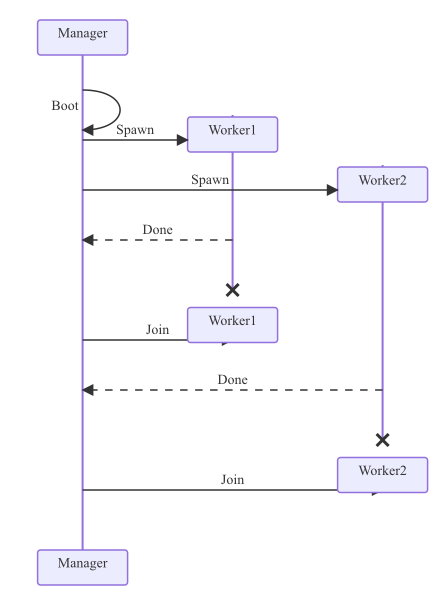
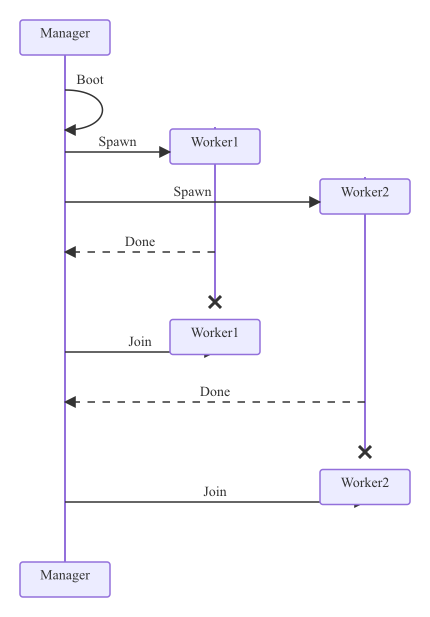
sequence: place self-message labels above the arc and reserve row clearance (#214)
* sequence: place self-message labels above the arc and reserve row clearance

Two related fixes to self-message rendering for mmdc parity:

1. Label placement. mmdc draws the label centered *above* the loop arc,
   not beside the lifeline. Switch renderSelfMessage to use the same
   multilineTextAbove helper as non-self messages, anchored at the arc
   midpoint (lifeline x + selfLoopW/2, y - 6).

   Replace selfMsgLeftBleed with selfMsgBleeds, which now also returns
   right-side overflow — both for the arc itself on the rightmost
   participant (selfLoopW + gap, previously unreserved) and for label
   overhang on either edge.

2. Row clearance after a self-message. The arc extends selfLoopH
   (40 px) below the message anchor, so the next row's label-above-
   arrow at next_y - 6 collides with the arc when defaultRowHeight is
   only 50 px. Add a selfLoopRowExtra() helper and apply it in both
   messageRenderer.curY advancement and extraLabelHeight, so the body
   reservation stays consistent.

Update TestRenderSelfMessageLabelLeftOfLifeline to assert the new
middle-anchored placement (renamed to TestRenderSelfMessageLabelAboveArc).
Refresh examples/sequence/{self_message,create_destroy} snapshots to
reflect the new layout.

* sequence: add renderSelfMessage godoc; assert label x in test

Address CodeRabbit review feedback:
- Document renderSelfMessage's geometry (arc shape, label placement,
  caller-managed clearance).
[…]

Changed region(s): [[0.0302, 0.0298, 0.9674, 0.9818]]

diff --git a/pkg/renderer/sequence/renderer.go b/pkg/renderer/sequence/renderer.go
@@ -144,8 +144,12 @@ func computeLayout(d *diagram.SequenceDiagram, fontSize, pad float64) seqLayout 
 		pIndex[p.ID] = i
 	}
 	leftBleed, rightBleed := noteBleed(d.Items, pIndex, n)
-	if l := selfMsgLeftBleed(d.Items, pIndex, fontSize); l > leftBleed {
-		leftBleed = l
+	sl, sr := selfMsgBleeds(d.Items, pIndex, n, fontSize)
+	if sl > leftBleed {
+		leftBleed = sl
+	}
+	if sr > rightBleed {
+		rightBleed = sr
 	}
 	if extra := leftBleed - pad; extra > 0 {
 		// Shift everything right so left-side notes fit.
@@ -300,40 +304,69 @@ func noteBleed(items []diagram.SequenceItem, pIndex map[string]int, n int) (left
 	return
 }
 
-// selfMsgLeftBleed returns the pixel extent the layout's left edge
-// must reserve for self-message labels on the leftmost participant
-// (text-anchor:end at lifeline x, label rendered to the left).
-func selfMsgLeftBleed(items []diagram.SequenceItem, pIndex map[string]int, fontSize float64) float64 {
+// selfMsgBleeds returns the horizontal overflow caused by self-message
+// arcs on the leftmost (idx 0) and rightmost (idx n-1) participants.
+//
+// The arc bulges selfLoopW to the right of the lifeline; the label is
+// centered above the arc midpoint. So:
+//   - Leftmost: a label wider than the arc overhangs left of the lifeline.
+//   - Rightmost: the arc itself extends past the rightmost lifeline; a
+//     wide label may extend further still.
+func selfMsgBleeds(items []diagram.SequenceItem, pIndex map[string]int, n int, fontSize float64) (left, right float64) {
 	const gap = 4.0
-	var bleed float64
 	for _, item := range items {
 		switch {
 		case item.Message != nil:
 			m := item.Message
-			if m.From != m.To || m.Label == "" {
+			if m.From != m.To {
 				continue
 			}
 			idx, ok := pIndex[m.From]
-			if !ok || idx != 0 {
+			if !ok {
 				continue
 			}
+			var labelHalf float64
 			for _, ln := range splitLabelLines(m.Label) {
-				if w := textmeasure.EstimateWidth(ln, fontSize) + gap; w > bleed {
-					bleed = w
+				if w := textmeasure.EstimateWidth(ln, fontSize) / 2; w > labelHalf {
+					labelHalf = w
+				}
+			}
+			if idx == 0 {
+				if oh := labelHalf - selfLoopW/2 + gap; oh > left {
+					left = oh
+				}
+			}
+			if idx == n-1 {
+				arcOH := selfLoopW + gap
+				labelOH := selfLoopW/2 + labelHalf + gap
+				oh := arcOH
+				if labelOH > oh {
+					oh = labelOH
+				}
+				if oh > right {
+					right = oh
 				}
 			}
 		case item.Block != nil:
-			if l := selfMsgLeftBleed(item.Block.Items, pIndex, fontSize); l > bleed {
-				bleed = l
+			l, r := selfMsgBleeds(item.Block.Items, pIndex, n, fontSize)
+			if l > left {
+				left = l
+			}
+			if r > right {
+				right = r
 			}
 			for _, br := range item.Block.Branches {
-				if l := selfMsgLeftBleed(br.Items, pIndex, fontSize); l > bleed {
-					bleed = l
+				l, r := selfMsgBleeds(br.Items, pIndex, n, fontSize)
+				if l > left {
+					left = l
+				}
+				if r > right {
+					right = r
 				}
 			}
 		}
 	}
-	return bleed
+	return
 }
 
 // bodyRowsAndExtra returns the row count and any per-row extra
@@ -349,8 +382,13 @@ func extraLabelHeight(items []diagram.SequenceItem, fontSize float64) float64 {
 	var extra float64
 	for _, item := range items {
 		switch {
-		case item.Message != nil && item.Message.Label != "":
-			extra += extraLinesHeight(item.Message.Label, fontSize)
+		case item.Message != nil:
+			if item.Message.Label != "" {
+				extra += extraLinesHeight(item.Message.Label, fontSize)
+			}
+			if item.Message.From == item.Message.To {
+				extra += selfLoopRowExtra(fontSize)
+			}
 		case item.Note != nil && item.Note.Text != "":
 			extra += extraLinesHeight(item.Note.Text, fontSize)
 		case item.Block != nil:

diff --git a/pkg/renderer/sequence/messages.go b/pkg/renderer/sequence/messages.go
@@ -105,8 +105,16 @@ func (mr *messageRenderer) renderItems(items []diagram.SequenceItem, isTopLevel 
 			elems = append(elems, mr.renderMessage(*item.Message)...)
 			// Multiline labels render above the message line; reserve
 			// extra vertical space so the next row's label doesn't
-			// collide with the current label's top lines.
-			mr.curY += defaultRowHeight + extraLinesHeight(item.Message.Label, mr.fontSize)
+			// collide with the current label's top lines. Self-messages
+			// also need a tall-enough row so the arc (which extends
+			// selfLoopH below the anchor y) clears the next row's label.
+			advance := defaultRowHeight + extraLinesHeight(item.Message.Label, mr.fontSize)
+			if item.Message.From == item.Message.To {
+				if delta := selfLoopRowExtra(mr.fontSize); delta > 0 {
+					advance += delta
+				}
+			}
+			mr.curY += advance
 		case item.Note != nil:
 			elems = append(elems, mr.renderNote(*item.Note)...)
 			mr.curY += defaultRowHeight + extraLinesHeight(item.Note.Text, mr.fontSize)
@@ -223,6 +231,11 @@ func (mr *messageRenderer) renderStraightMessage(fromX, toX, y float64, m diagra
 	return elems
 }
 
+// renderSelfMessage renders a self-message — a curved arc that leaves the
+// lifeline at (x, y), bulges selfLoopW px to the right, and re-enters the
+// lifeline at (x, y+selfLoopH). The label, when present, is drawn centered
+// above the arc; row-height clearance for that label is reserved by the
+// caller via selfLoopRowExtra.
 func (mr *messageRenderer) renderSelfMessage(x, y float64, m diagram.Message) []any {
 	style := mr.messageLineStyle(m.ArrowType)
 	// Symmetric control points keep the curve's end tangent
@@ -243,11 +256,12 @@ func (mr *messageRenderer) renderSelfMessage(x, y float64, m diagram.Message) []
 	var elems []any
 	elems = append(elems, p)
 	if m.Label != "" {
-		// Label sits to the left of the lifeline (mmdc parity).
-		// The arc bulges right, so left is the only side that
-		// won't collide with the curve or get clipped at the
-		// layout's right edge for a rightmost participant.
-		elems = append(elems, multilineText(m.Label, x-4, y+selfLoopH/2, "end", "central", mr.msgTextStyle, mr.fontSize)...)
+		// Label sits centered above the arc (mmdc parity). The arc
+		// bulges selfLoopW to the right of the lifeline, so the
+		// horizontal anchor is the arc midpoint; the vertical anchor
+		// is just above the arc's top, matching the y-6 offset used
+		// for non-self messages.
+		elems = append(elems, multilineTextAbove(m.Label, x+selfLoopW/2, y-6, "middle", mr.msgTextStyle, mr.fontSize)...)
 	}
 	return elems
 }
@@ -544,6 +558,21 @@ func splitLabelLines(s string) []string {
 // Owned here so callers don't need to recompute it when positioning the
 // stack relative to other elements (see multilineTextAbove).
 func labelLineHeight(fontSize float64) float64 { return fontSize + 2 }
+
+// selfLoopRowExtra returns the additional row advance (beyond defaultRowHeight)
+// required when the current item is a self-message, so the arc — which extends
+// selfLoopH below the message anchor y — clears the next row's label-above-arrow
+// (drawn at next_y - 6 with one line of label height above the baseline).
+//
+// Returns 0 when defaultRowHeight already accommodates everything.
+func selfLoopRowExtra(fontSize float64) float64 {
+	const labelGap = 6.0
+	needed := selfLoopH + labelLineHeight(fontSize) + labelGap
+	if needed > defaultRowHeight {
+		return needed - defaultRowHeight
+	}
+	return 0
+}
 
 // multilineText returns one or more text elements forming a vertically
 // stacked label centered on (cx, cy). Used wherever a Mermaid label may

diff --git a/pkg/renderer/sequence/renderer_test.go b/pkg/renderer/sequence/renderer_test.go
@@ -766,10 +766,10 @@ func TestRenderSelfMessageUsesArcPath(t *testing.T) {
 	assertValidSVG(t, out)
 }
 
-func TestRenderSelfMessageLabelLeftOfLifeline(t *testing.T) {
-	// mmdc renders a self-message label to the *left* of the lifeline
-	// (text-anchor:end) so it doesn't collide with the right-side
-	// loop arc and avoids being clipped by the rightmost layout edge.
+func TestRenderSelfMessageLabelAboveArc(t *testing.T) {
+	// mmdc renders a self-message label centered *above* the loop arc,
+	// not beside the lifeline. Verify the text element is middle-anchored
+	// at roughly the arc's midpoint x (lifeline_x + selfLoopW/2).
 	d := &diagram.SequenceDiagram{
 		Participants: []diagram.Participant{
 			{ID: "Worker", Kind: diagram.ParticipantKindParticipant, CreatedAtItem: -1, DestroyedAtItem: -1},
@@ -786,13 +786,28 @@ func TestRenderSelfMessageLabelLeftOfLifeline(t *testing.T) {
 		t.Fatalf("Render: %v", err)
 	}
 	raw := string(out)
-	re := regexp.MustCompile(`<text[^>]*text-anchor="(\w+)"[^>]*>Recursive step</text>`)
-	m := re.FindStringSubmatch(raw)
-	if m == nil {
+	textRE := regexp.MustCompile(`<text[^>]*\bx="([0-9.]+)"[^>]*\btext-anchor="(\w+)"[^>]*>Recursive step</text>`)
+	tm := textRE.FindStringSubmatch(raw)
+	if tm == nil {
 		t.Fatalf("did not find self-message label; raw: %s", raw)
 	}
-	if m[1] != "end" {
-		t.Errorf("self-message label should be end-anchored (left of lifeline), got text-anchor=%q", m[1])
+	labelX, _ := strconv.ParseFloat(tm[1], 64)
+	if tm[2] != "middle" {
+		t.Errorf("self-message label should be middle-anchored above arc, got text-anchor=%q", tm[2])
+	}
+
+	// The arc's first MoveTo coordinate is the lifeline x; assert the
+	// label sits at that x + selfLoopW/2 (the arc's horizontal midpoint).
+	pathRE := regexp.MustCompile(`<path d="M([0-9.]+),[0-9.]+ C`)
+	pm := pathRE.FindStringSubmatch(raw)
+	if pm == nil {
+		t.Fatalf("did not find self-message arc path; raw: %s", raw)
+	}
+	lifelineX, _ := strconv.ParseFloat(pm[1], 64)
+	wantX := lifelineX + 25.0 // selfLoopW/2 = 50/2
+	if diff := labelX - wantX; diff < -0.5 || diff > 0.5 {
+		t.Errorf("self-message label x = %v; want ~%v (lifelineX %v + selfLoopW/2)",
+			labelX, wantX, lifelineX)
 	}
 }
 
